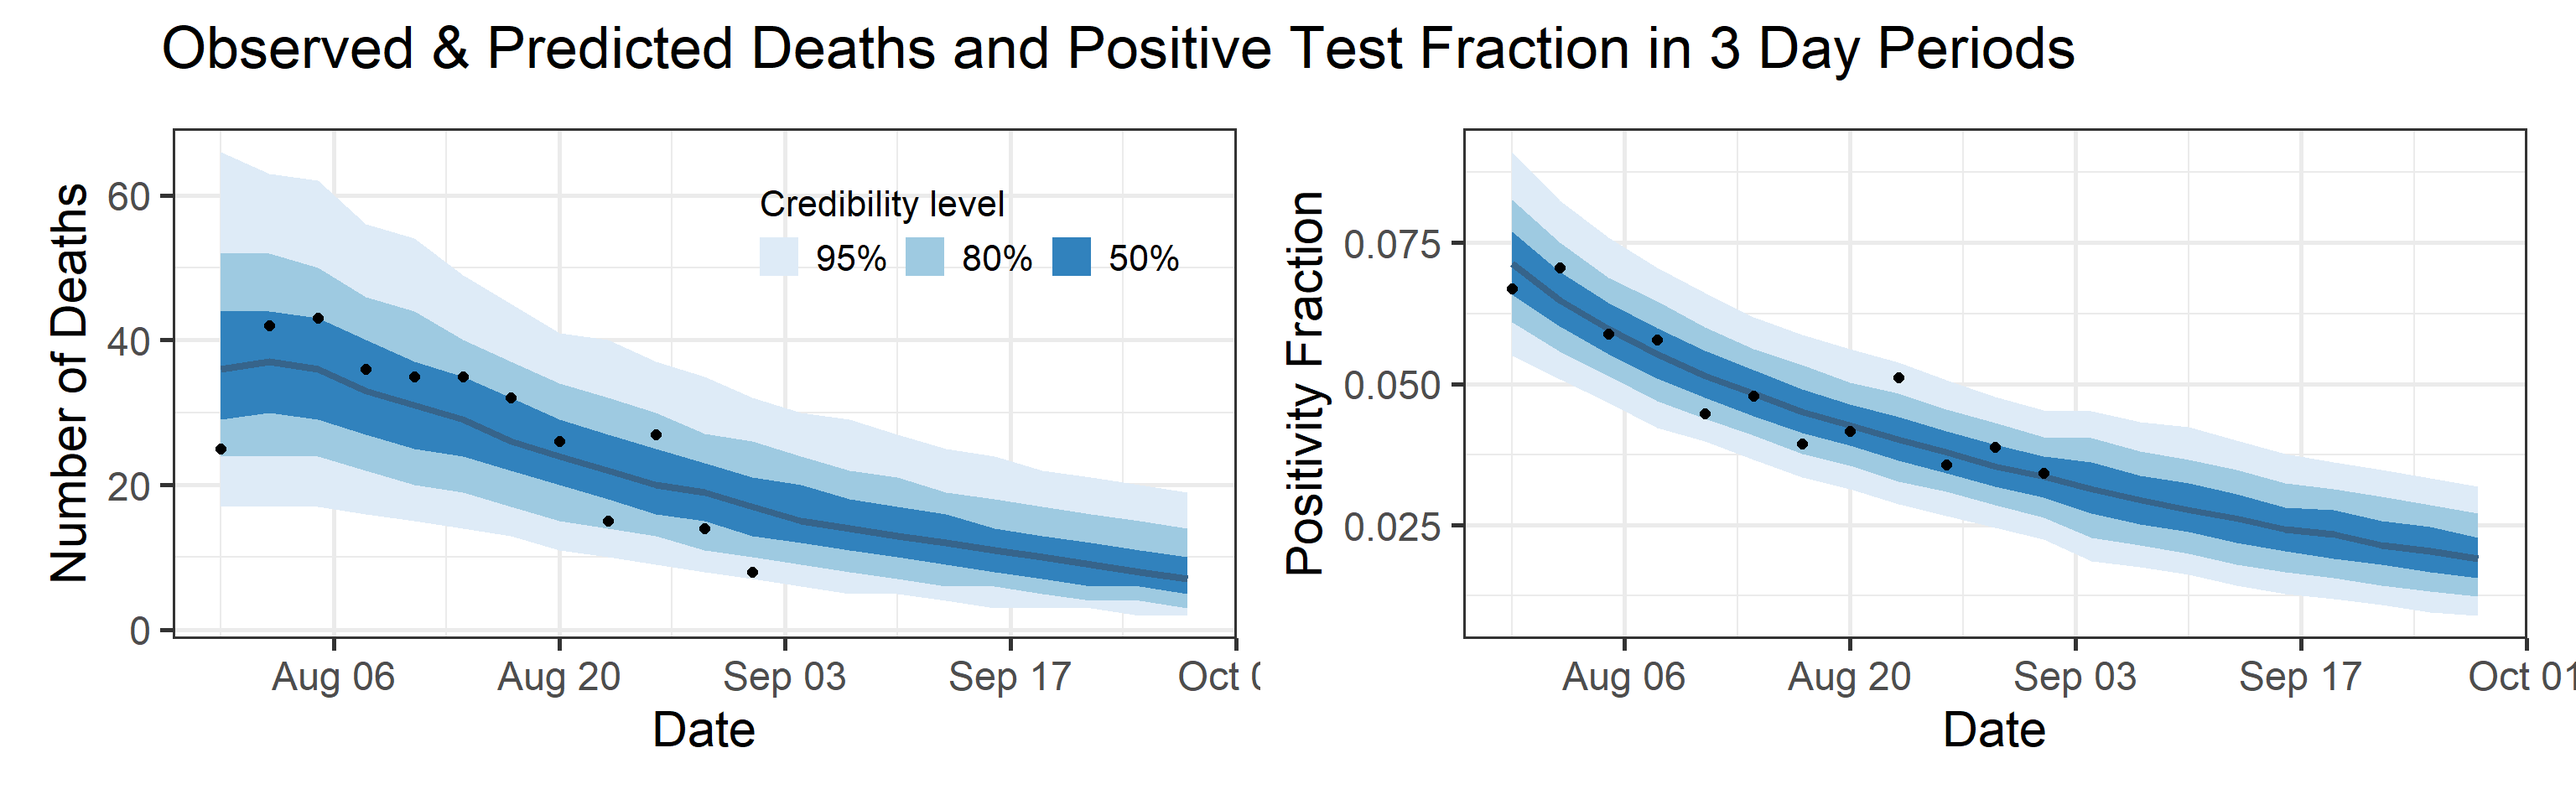
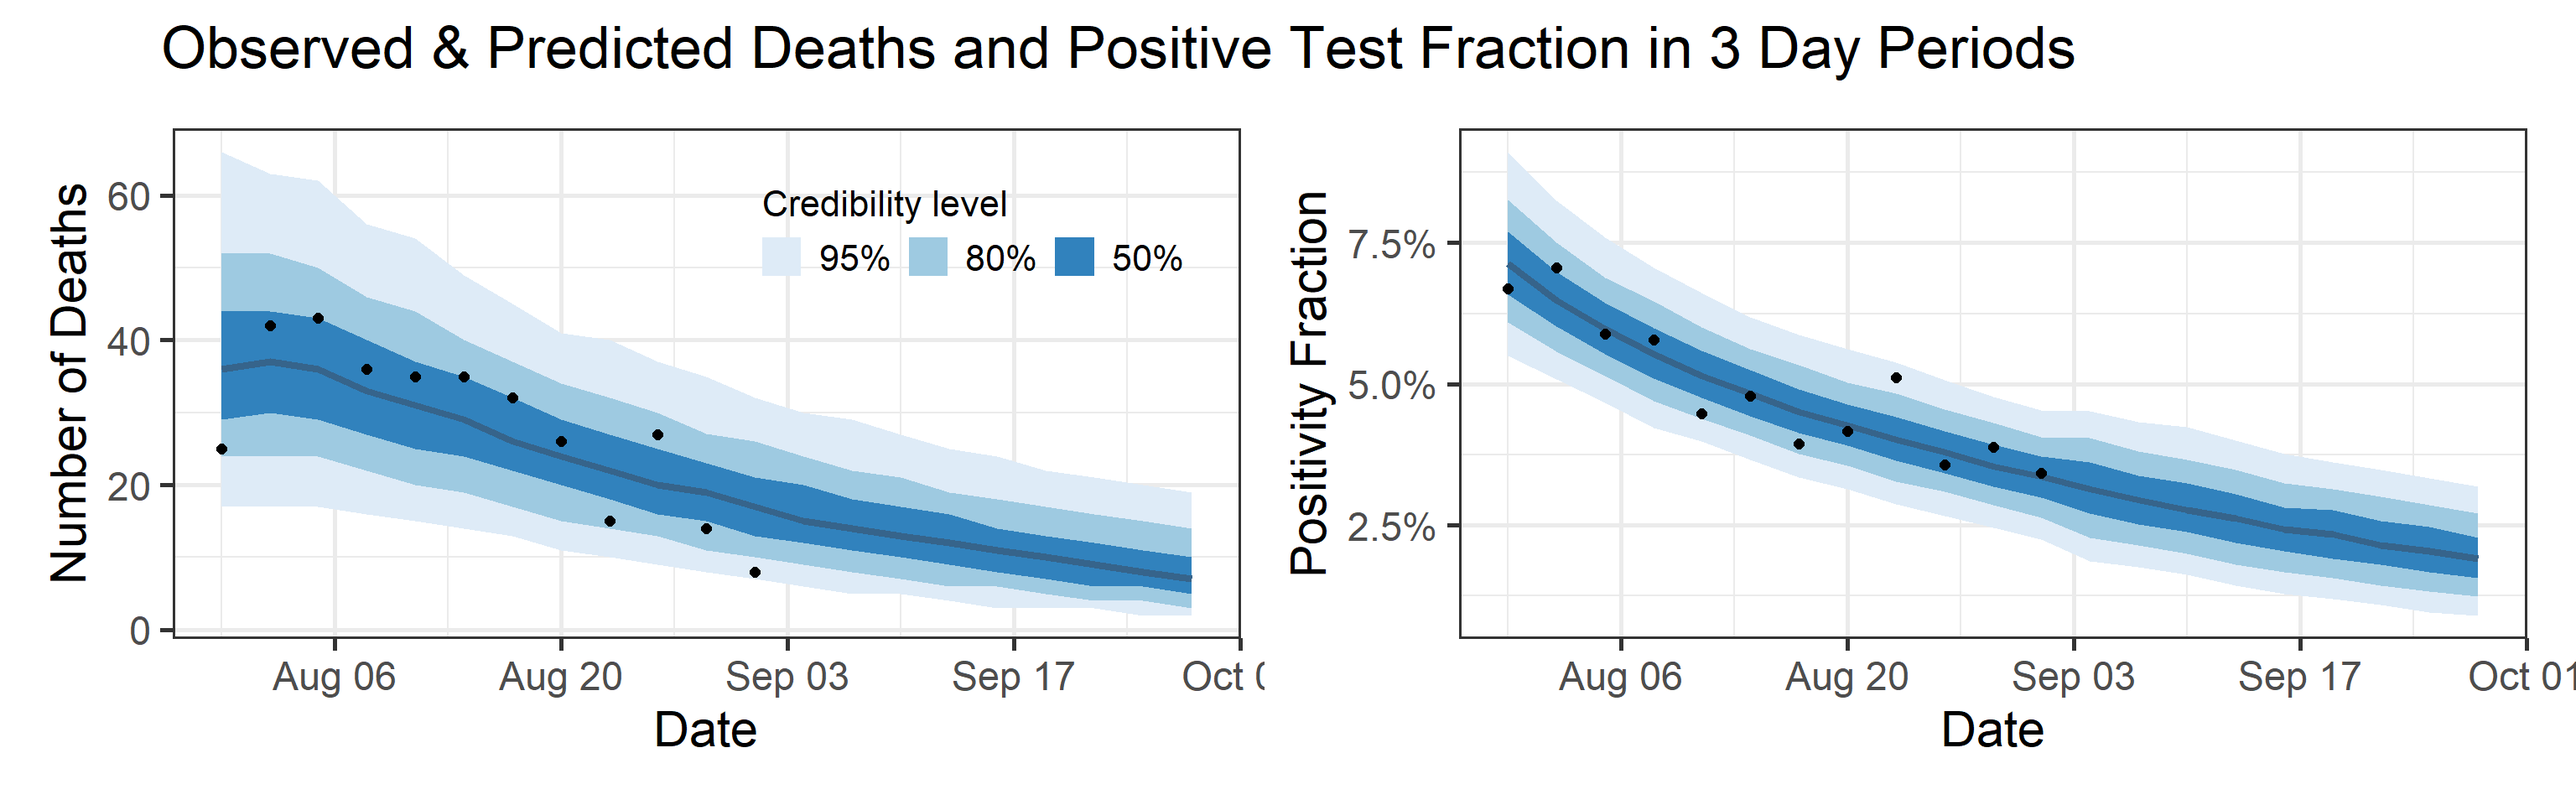
actually updating jul 28 sept 1

diff --git a/docs/index.html b/docs/index.html
@@ -293,6 +293,9 @@ $(document).ready(function () {
   </a>
   <ul class="dropdown-menu" role="menu">
     <li>
+      <a href="jul24_aug28.html">Jul 24 - Aug 28</a>
+    </li>
+    <li>
       <a href="jul18_aug22.html">Jul 18 - Aug 22</a>
     </li>
     <li>
@@ -443,16 +446,16 @@ This reproducible <a href="http://rmarkdown.rstudio.com">R Markdown</a> analysis
 <div class="panel panel-default">
 <div class="panel-heading">
 <p class="panel-title">
-<a data-toggle="collapse" data-parent="#workflowr-checks" href="#strongRepositoryversionstrongahrefhttpsgithubcomvnmininucicovidmodelingtree8c05c26e979754ac6d90469498178f4bb81ef0detargetblank8c05c26a"> <span class="glyphicon glyphicon-ok text-success" aria-hidden="true"></span> <strong>Repository version:</strong> <a href="https://github.com/vnminin/uci_covid_modeling/tree/8c05c26e979754ac6d90469498178f4bb81ef0de" target="_blank">8c05c26</a> </a>
+<a data-toggle="collapse" data-parent="#workflowr-checks" href="#strongRepositoryversionstrongahrefhttpsgithubcomvnmininucicovidmodelingtreeb5a0ae4beab398dc9510c49a19777643c49108f3targetblankb5a0ae4a"> <span class="glyphicon glyphicon-ok text-success" aria-hidden="true"></span> <strong>Repository version:</strong> <a href="https://github.com/vnminin/uci_covid_modeling/tree/b5a0ae4beab398dc9510c49a19777643c49108f3" target="_blank">b5a0ae4</a> </a>
 </p>
 </div>
[2 lines of base64/hex data omitted]
 <div class="panel-body">
 <p>
 Great! You are using Git for version control. Tracking code development and connecting the code version to the results is critical for reproducibility.
 </p>
 <p>
-The results in this page were generated with repository version <a href="https://github.com/vnminin/uci_covid_modeling/tree/8c05c26e979754ac6d90469498178f4bb81ef0de" target="_blank">8c05c26</a>. See the <em>Past versions</em> tab to see a history of the changes made to the R Markdown and HTML files.
+The results in this page were generated with repository version <a href="https://github.com/vnminin/uci_covid_modeling/tree/b5a0ae4beab398dc9510c49a19777643c49108f3" target="_blank">b5a0ae4</a>. See the <em>Past versions</em> tab to see a history of the changes made to the R Markdown and HTML files.
 </p>
 <p>
 Note that you need to be careful to ensure that all relevant files for the analysis have been committed to Git prior to generating the results (you can use <code>wflow_publish</code> or <code>wflow_git_commit</code>). workflowr only checks the R Markdown file, but you know if there are other scripts or data files that it depends on. Below is the status of the Git repository when the results were generated:
@@ -462,11 +465,10 @@ Ignored files:
     Ignored:    .Rhistory
     Ignored:    .Rproj.user/
     Ignored:    analysis/jul18_aug22_cache/
+    Ignored:    analysis/jul24_aug28_cache/
 
 Unstaged changes:
     Modified:   analysis/index.Rmd
-    Modified:   data/oc_data.csv
-    Modified:   uci_covid_modeling.Rproj
 
 </code></pre>
 <p>
@@ -505,6 +507,108 @@ Message
 </tr>
 </thead>
 <tbody>
+<tr>
+<td>
+Rmd
+</td>
+<td>
+<a href="https://github.com/vnminin/uci_covid_modeling/blob/b5a0ae4beab398dc9510c49a19777643c49108f3/analysis/index.Rmd" target="_blank">b5a0ae4</a>
+</td>
+<td>
+igoldsteinh
+</td>
+<td>
+2020-09-13
+</td>
+<td>
+Merge branch ‘master’ of <a href="https://github.com/vnminin/uci_covid_modeling" class="uri">https://github.com/vnminin/uci_covid_modeling</a>
+</td>
+</tr>
+<tr>
+<td>
+Rmd
+</td>
+<td>
+<a href="https://github.com/vnminin/uci_covid_modeling/blob/2ae9065cad796b569b391638cd6d16a752f4b16d/analysis/index.Rmd" target="_blank">2ae9065</a>
+</td>
+<td>
+igoldsteinh
+</td>
+<td>
+2020-09-13
+</td>
+<td>
+jul28 to sep 1 update
+</td>
+</tr>
+<tr>
+<td>
+html
+</td>
+<td>
+<a href="https://rawcdn.githack.com/vnminin/uci_covid_modeling/2ae9065cad796b569b391638cd6d16a752f4b16d/docs/index.html" target="_blank">2ae9065</a>
+</td>
+<td>
+igoldsteinh
+</td>
+<td>
+2020-09-13
+</td>
+<td>
+jul28 to sep 1 update
+</td>
+</tr>
+<tr>
+<td>
+html
+</td>
+<td>
+<a href="https://rawcdn.githack.com/vnminin/uci_covid_modeling/2b665a54ed8f483887bb6e7e9b395fdaa7f62968/docs/index.html" target="_blank">2b665a5</a>
+</td>
+<td>
+vnminin
+</td>
+<td>
+2020-09-12
+</td>
+<td>
+tried to add google analytics unsuccessfully yet
+</td>
+</tr>
+<tr>
+<td>
+Rmd
+</td>
+<td>
+<a href="https://github.com/vnminin/uci_covid_modeling/blob/0f11928129e1b8d5838315fd2127b7b1ffe0dce4/analysis/index.Rmd" target="_blank">0f11928</a>
+</td>
+<td>
+Damon Bayer
+</td>
+<td>
+2020-09-09
+</td>
+<td>
+Positivity Fraction as %
+</td>
+</tr>
+<tr>
+<td>
+html
+</td>
+<td>
+<a href="https://rawcdn.githack.com/vnminin/uci_covid_modeling/0f11928129e1b8d5838315fd2127b7b1ffe0dce4/docs/index.html" target="_blank">0f11928</a>
+</td>
+<td>
+Damon Bayer
+</td>
+<td>
+2020-09-09
+</td>
+<td>
+Positivity Fraction as %
+</td>
+</tr>
 <tr>
 <td>
 html
@@ -1639,41 +1743,39 @@ attached base packages:
 [1] stats     graphics  grDevices utils     datasets  methods   base     
 
 other attached packages:
- [1] rstan_2.21.2         StanHeaders_2.21.0-5 patchwork_1.0.1     
- [4] scales_1.1.1         tidybayes_2.1.1      forcats_0.5.0       
- [7] stringr_1.4.0        dplyr_1.0.0          purrr_0.3.4         
-[10] readr_1.3.1          tidyr_1.1.0          tibble_3.0.3        
-[13] ggplot2_3.3.2        tidyverse_1.3.0      fs_1.4.2            
-[16] here_0.1             lubridate_1.7.9      workflowr_1.6.2     
+ [1] patchwork_1.0.1 scales_1.1.1    tidybayes_2.1.1 forcats_0.5.0  
+ [5] stringr_1.4.0   dplyr_1.0.0     purrr_0.3.4     readr_1.3.1    
+ [9] tidyr_1.1.0     tibble_3.0.3    ggplot2_3.3.2   tidyverse_1.3.0
+[13] fs_1.4.2        here_0.1        lubridate_1.7.9 workflowr_1.6.2
 
 loaded via a namespace (and not attached):
  [1] matrixStats_0.56.0   RColorBrewer_1.1-2   httr_1.4.1          
- [4] rprojroot_1.3-2      tools_4.0.2          backports_1.1.8     
- [7] utf8_1.1.4           R6_2.4.1             DBI_1.1.0           
-[10] colorspace_1.4-1     ggdist_2.2.0         withr_2.2.0         
-[13] gridExtra_2.3        tidyselect_1.1.0     prettyunits_1.1.1   
-[16] processx_3.4.3       curl_4.3             compiler_4.0.2      
-[19] git2r_0.27.1         cli_2.0.2            rvest_0.3.5         
-[22] arrayhelpers_1.1-0   xml2_1.3.2           labeling_0.3        
-[25] callr_3.4.3          digest_0.6.25        rmarkdown_2.3       
-[28] pkgconfig_2.0.3      htmltools_0.5.0      dbplyr_1.4.4        
-[31] rlang_0.4.7          readxl_1.3.1         rstudioapi_0.11     
-[34] farver_2.0.3         generics_0.0.2       svUnit_1.0.3        
-[37] jsonlite_1.7.0       distributional_0.1.0 inline_0.3.15       
-[40] magrittr_1.5         loo_2.3.1            Rcpp_1.0.5          
-[43] munsell_0.5.0        fansi_0.4.1          lifecycle_0.2.0     
-[46] stringi_1.4.6        whisker_0.4          yaml_2.2.1          
-[49] pkgbuild_1.1.0       plyr_1.8.6           grid_4.0.2          
-[52] blob_1.2.1           parallel_4.0.2       promises_1.1.1      
-[55] crayon_1.3.4         lattice_0.20-41      haven_2.3.1         
-[58] hms_0.5.3            knitr_1.29           ps_1.3.3            
-[61] pillar_1.4.6         codetools_0.2-16     stats4_4.0.2        
-[64] reprex_0.3.0         glue_1.4.2           evaluate_0.14       
-[67] V8_3.2.0             RcppParallel_5.0.2   modelr_0.1.8        
-[70] vctrs_0.3.2          httpuv_1.5.4         cellranger_1.1.0    
-[73] gtable_0.3.0         assertthat_0.2.1     xfun_0.15           
-[76] broom_0.7.0          coda_0.19-3          later_1.1.0.1       
-[79] ellipsis_0.3.1      </code></pre>
+ [4] rprojroot_1.3-2      rstan_2.21.2         tools_4.0.2         
+ [7] backports_1.1.8      utf8_1.1.4           R6_2.4.1            
+[10] DBI_1.1.0            colorspace_1.4-1     ggdist_2.2.0        
+[13] withr_2.2.0          gridExtra_2.3        tidyselect_1.1.0    
+[16] prettyunits_1.1.1    processx_3.4.3       curl_4.3            
+[19] compiler_4.0.2       git2r_0.27.1         cli_2.0.2           
+[22] rvest_0.3.5          arrayhelpers_1.1-0   xml2_1.3.2          
+[25] labeling_0.3         callr_3.4.3          digest_0.6.25       
+[28] StanHeaders_2.21.0-5 rmarkdown_2.3        pkgconfig_2.0.3     
+[31] htmltools_0.5.0      dbplyr_1.4.4         rlang_0.4.7         
+[34] readxl_1.3.1         rstudioapi_0.11      farver_2.0.3        
+[37] generics_0.0.2       svUnit_1.0.3         jsonlite_1.7.0      
+[40] distributional_0.1.0 inline_0.3.15        magrittr_1.5        
+[43] loo_2.3.1            Rcpp_1.0.5           munsell_0.5.0       
+[46] fansi_0.4.1          lifecycle_0.2.0      stringi_1.4.6       
+[49] whisker_0.4          yaml_2.2.1           pkgbuild_1.1.0      
+[52] plyr_1.8.6           grid_4.0.2           blob_1.2.1          
+[55] parallel_4.0.2       promises_1.1.1       crayon_1.3.4        
+[58] lattice_0.20-41      haven_2.3.1          hms_0.5.3           
+[61] knitr_1.29           ps_1.3.3             pillar_1.4.6        
+[64] codetools_0.2-16     stats4_4.0.2         reprex_0.3.0        
+[67] glue_1.4.2           evaluate_0.14        V8_3.2.0            
+[70] RcppParallel_5.0.2   modelr_0.1.8         vctrs_0.3.2         
+[73] httpuv_1.5.4         cellranger_1.1.0     gtable_0.3.0        
+[76] assertthat_0.2.1     xfun_0.15            broom_0.7.0         
+[79] coda_0.19-3          later_1.1.0.1        ellipsis_0.3.1      </code></pre>
 </div>
 </div>
 </div>
